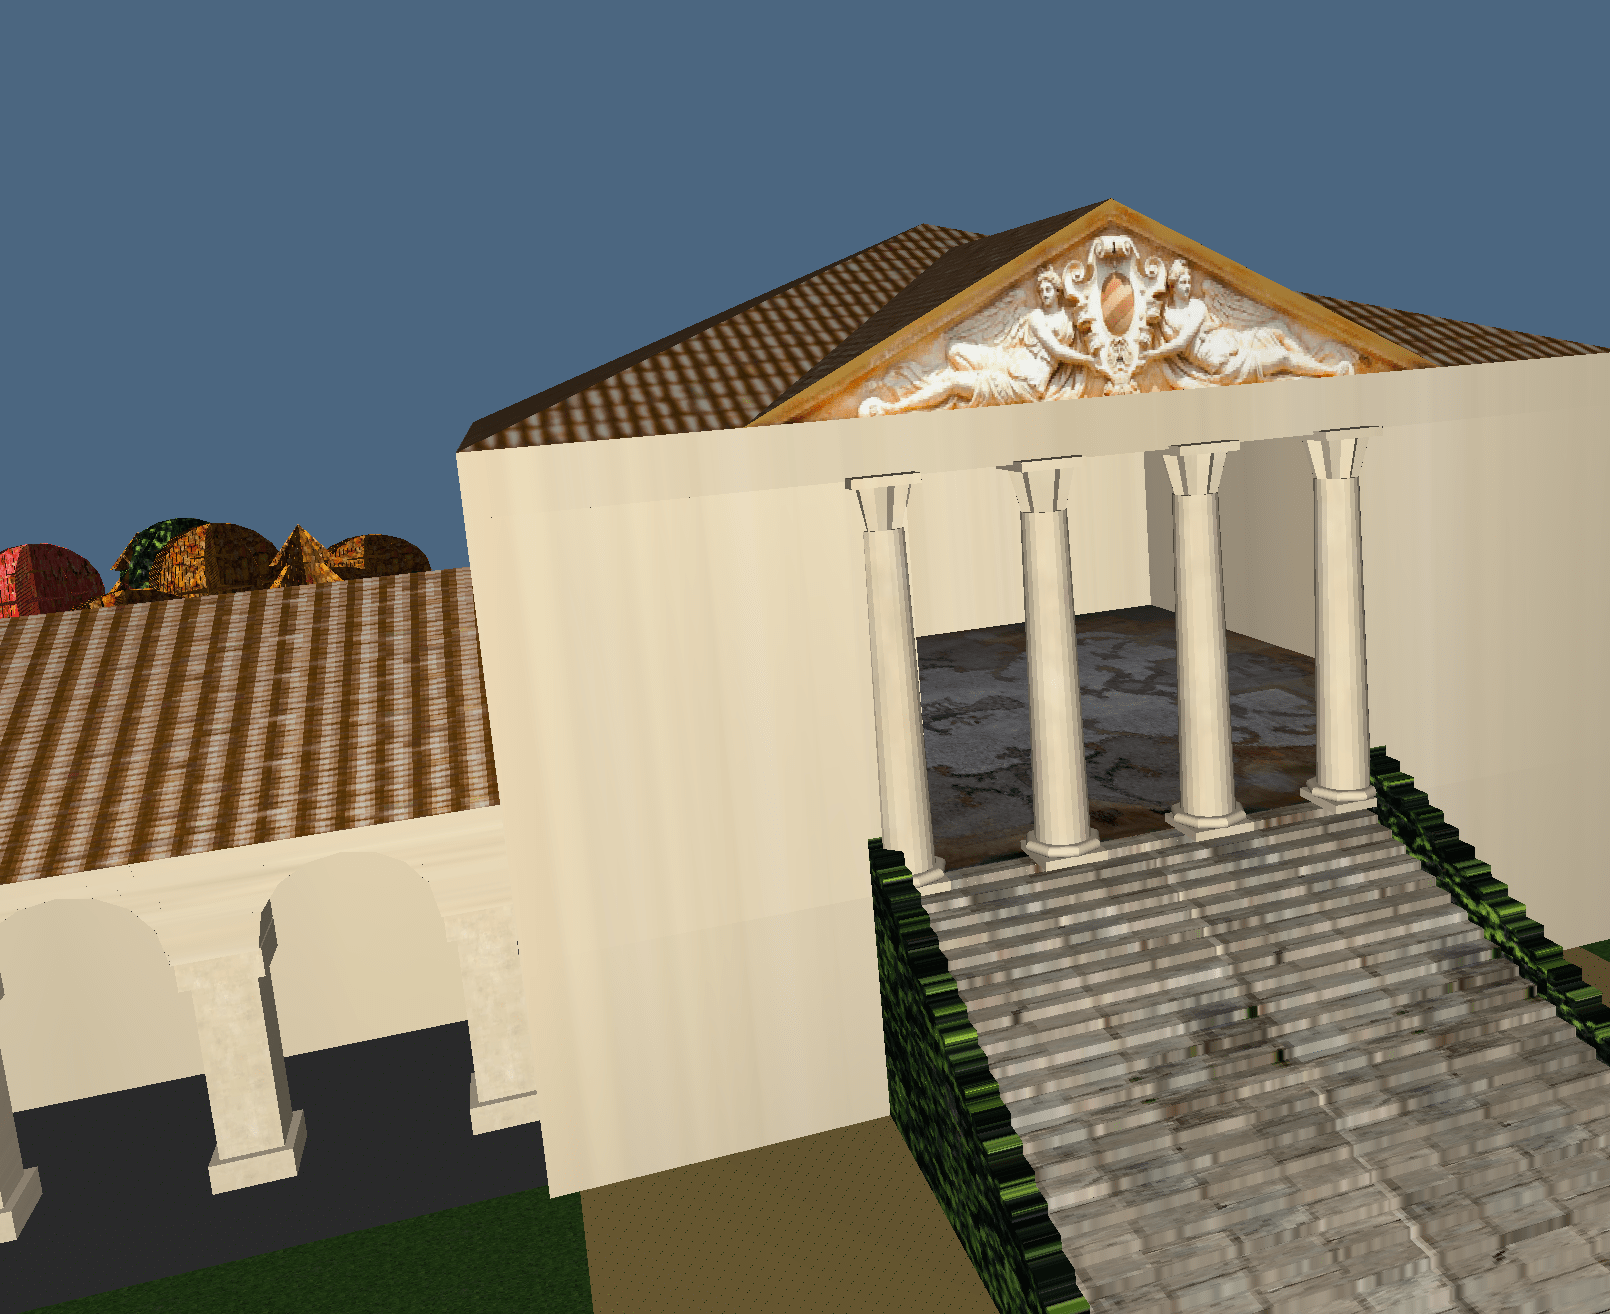
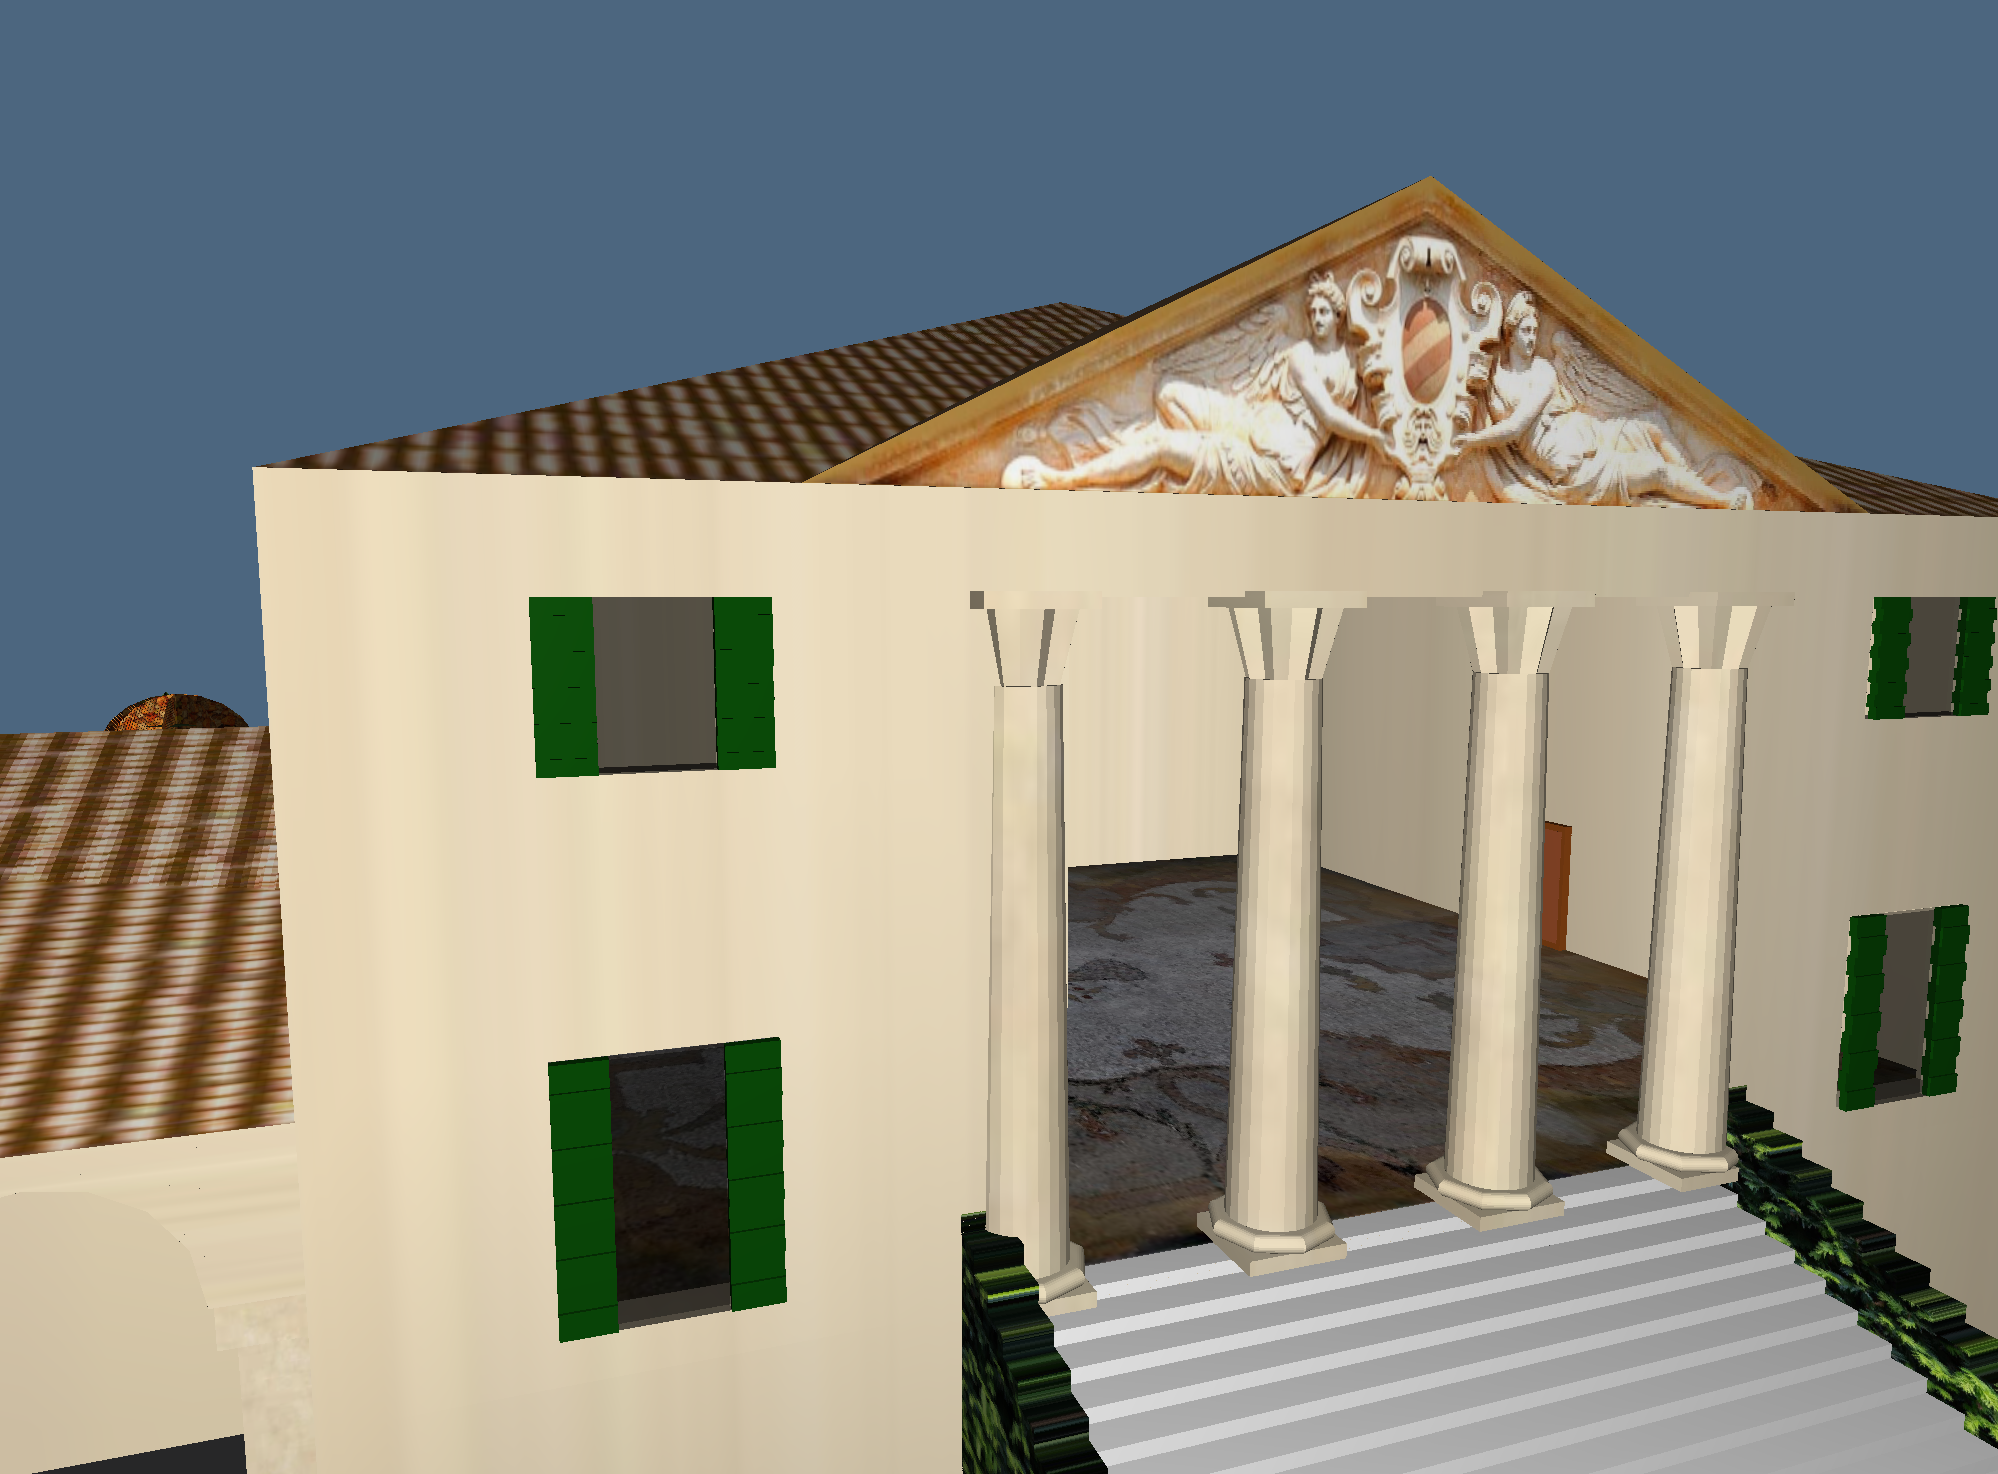
finestre

diff --git a/0-villa-emo/view.py b/0-villa-emo/view.py
@@ -335,7 +335,24 @@ def albero(tipologia, rAlbero, hAlbero, hTronco, stagione = SEASON):
 
     return tree
 
-tramezzi_centrale = intonaco()(tramezzi_centrale())
+tramezzi_centrale = intonaco()(DIFFERENCE([
+    tramezzi_centrale(),
+    STRUCT([
+
+        # finestra in basso a sinistra
+        T([1, 2, 3])([6450, 1991, 450])(CUBOID([200, 50, 250])),
+
+        # finestra in alto a sinistra
+        T([1, 2, 3])([6450, 1991, 950])(CUBOID([200, 50, 150])),
+
+        # finestra in alto a destra
+        T([1, 2, 3])([4900, 1991, 950])(CUBOID([200, 50, 150])),
+
+        # finestra in basso a destra
+        T([1, 2, 3])([4900, 1991, 450])(CUBOID([200, 50, 250])),
+
+    ])
+]))
 tramezzi_laterali = intonaco()(tramezzi_laterali())
 tetto_centrale = tegole()(tetto_piramidale(2000, 2150, 400))
 tetti_laterali = tegole(6, 6)(ripeti(tetto_triangolo(4700, 1300), 2, 2150))
@@ -372,8 +389,73 @@ def torre():
         tegole()(tetto_piramidale(l, l, 200))
     ])
 
+def porta(spessore, larghezza, altezza, dev = True):
+    if(dev):
+        maniglia = HEX("#FFFF00")(T([2, 3])([larghezza*0.05, altezza * 0.5])(SPHERE(larghezza*0.05)([20, 20])))
+    else:
+        maniglia = HEX("#FFFF00")(T([1, 2, 3])([spessore, larghezza*0.05, altezza * 0.5])(SPHERE(larghezza*0.05)([20, 20])))
+
+    return STRUCT([
+        maniglia,
+        HEX("#8B4513")(CUBOID([spessore, larghezza, altezza])),
+        T([1, 2, 3])([0, larghezza*0.05, altezza*0.05])(HEX("#A0522D")(CUBOID([spessore, larghezza*0.9, altezza*0.9])))
+    ])
+
+def hex_material(color, light, trasparence):
+    """
+    Edits the color and trasparency of the object.
+    :param color:
+    :param light:
+    :param trasparence:
+    :return:
+    """
+    def hex_to_rgb(value):
+        value = value.lstrip('#')
+        lv = len(value)
+        return map(lambda x: x/255., list(int(value[i:i + lv // 3], 16) for i in range(0, lv, lv // 3)))
+
+    # ambientRGBA, diffuseRGBA specularRGBA emissionRGBA shininess
+    params = hex_to_rgb(color) + [.1] + \
+             hex_to_rgb(light) + [trasparence] +\
+             hex_to_rgb(light) + [.1] +\
+             hex_to_rgb("#000000") + [.1] +\
+             [100]
+
+    return MATERIAL(params)
+
+def window(larghezza_laterale, larghezza_centrale, altezza, spessore):
+    def yT(i):
+        if(i%2==0):
+            return 1
+        else:
+            return 0
+    laterale = STRUCT(map(lambda x : HEX("#094707")(T([2, 3])([yT(x)*float(spessore)/3, x*float(altezza)/10])(CUBOID([larghezza_laterale, spessore, float(altezza)/10]))), range(0, 10)))
+    result = LEFT([laterale, hex_material("#000000", "#000000", .4)(CUBOID([larghezza_centrale, spessore, altezza]))])
+    result = LEFT([result, laterale])
+
+    return result
+
 VIEW(
     STRUCT([
+
+        # finestra basso sinistra
+        T([1, 2, 3])([6450+100+50, 1991+50, 450])(window(50, 100, 250, 10)),
+
+        # finestra in alto a sinistra
+        T([1, 2, 3])([6450+100+50, 1991+50, 950])(window(50, 100, 150, 10)),
+
+        # finestra in alto a destra
+        T([1, 2, 3])([4900+100+50, 1991+50, 950])(window(50, 100, 150, 10)),
+
+        # finestra in basso a destra
+        T([1, 2, 3])([4900+100+50, 1991+50, 450])(window(50, 100, 250, 10)),
+
+        # porta sinistra
+        (T([1, 2, 3])([6800, 991, 400])(porta(50, 180, 250))),
+
+        # porta destra
+        (T([1, 2, 3])([4700, 991, 400])(porta(50, 180, 250, False))),
+
         MIDDLE([
             MIDDLE([
                 MIDDLE([
